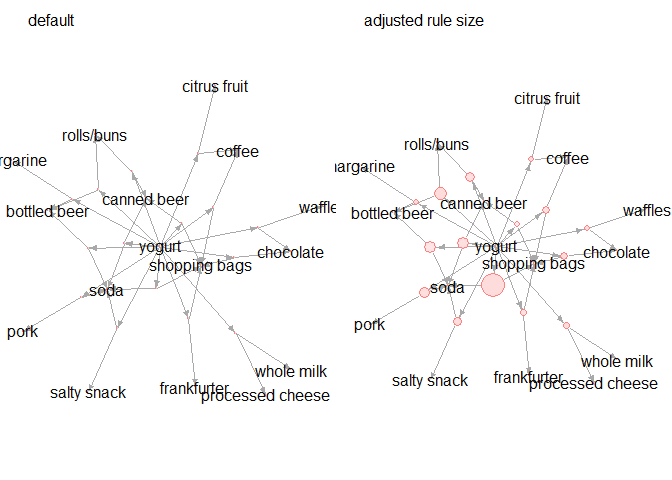
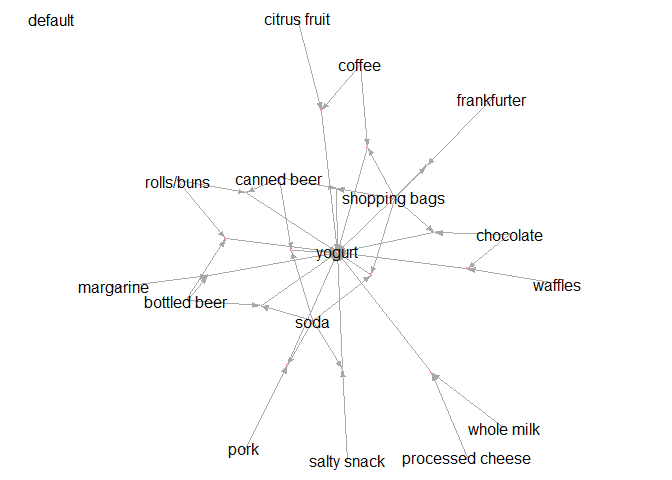
fix: rename inspectDF output colmn "n" -> "n.lhs"

diff --git a/README.md b/README.md
@@ -190,19 +190,20 @@ rules.lhs  <- glo.inspectDF %>%
   filter(n > 1) %>% 
   head(15)
 
-par(mfrow = c(1,2))
-set.seed(0)
+s=5
+set.seed(s)
 rules.lhs %>% plotRuleGraph(label = "default")
-set.seed(0)
-rules.lhs %>% plotRuleGraph(label = "adjusted rule size", 
-                            adujust.support.size = 4000)
 ```
 
 ![](README_files/figure-html/usecase.adjust.rule-1.png)<!-- -->
 
 ```r
-par(mfrow = c(1,1))
+set.seed(s)
+rules.lhs %>% plotRuleGraph(label = "adjusted rule size", 
+                            adujust.support.size = 4000)
 ```
+
+![](README_files/figure-html/usecase.adjust.rule-2.png)<!-- -->
 
 ```r
 require(stringr)
@@ -248,52 +249,52 @@ rules.lhs
 
 edges.lhs <- rules.lhs %>% inspectDF::toEdges()
 edges.lhs
-#>            to             from n     support confidence      lift count
-#> 1   Rule 7989      canned beer 2 0.001118454 0.09821429 0.7040361    11
-#> 2   Rule 7989    shopping bags 2 0.001118454 0.09821429 0.7040361    11
-#> 3  Rule 31170             soda 2 0.002135231 0.12574850 0.9014115    21
-#> 4  Rule 31170     bottled beer 2 0.002135231 0.12574850 0.9014115    21
-#> 5  Rule 13529      frankfurter 2 0.001220132 0.14814815 1.0619803    12
-#> 6  Rule 13529    shopping bags 2 0.001220132 0.14814815 1.0619803    12
-#> 7  Rule 20442           coffee 2 0.001423488 0.15217391 1.0908385    14
-#> 8  Rule 20442    shopping bags 2 0.001423488 0.15217391 1.0908385    14
-#> 9  Rule 26699       rolls/buns 2 0.001728521 0.15315315 1.0978581    17
-#> 10 Rule 26699      canned beer 2 0.001728521 0.15315315 1.0978581    17
-#> 11 Rule 31223             soda 2 0.002135231 0.15441176 1.1068803    21
-#> 12 Rule 31223      canned beer 2 0.002135231 0.15441176 1.1068803    21
-#> 13 Rule 29426             pork 2 0.001931876 0.16239316 1.1640938    19
-#> 14 Rule 29426             soda 2 0.001931876 0.16239316 1.1640938    19
-#> 15 Rule 22978             soda 2 0.001525165 0.16304348 1.1687555    15
-#> 16 Rule 22978      salty snack 2 0.001525165 0.16304348 1.1687555    15
-#> 17  Rule 2458        margarine 2 0.001016777 0.16666667 1.1947279    10
-#> 18  Rule 2458     bottled beer 2 0.001016777 0.16666667 1.1947279    10
-#> 19 Rule 32635       rolls/buns 2 0.002338587 0.17164179 1.2303914    23
-#> 20 Rule 32635     bottled beer 2 0.002338587 0.17164179 1.2303914    23
-#> 21 Rule 38217             soda 2 0.004270463 0.17355372 1.2440968    42
-#> 22 Rule 38217    shopping bags 2 0.004270463 0.17355372 1.2440968    42
-#> 23 Rule 13816       whole milk 2 0.001220132 0.17391304 1.2466726    12
-#> 24 Rule 13816 processed cheese 2 0.001220132 0.17391304 1.2466726    12
-#> 25  Rule 9106     citrus fruit 2 0.001118454 0.17460317 1.2516197    11
-#> 26  Rule 9106           coffee 2 0.001118454 0.17460317 1.2516197    11
-#> 27 Rule 20625        chocolate 2 0.001423488 0.17500000 1.2544643    14
-#> 28 Rule 20625    shopping bags 2 0.001423488 0.17500000 1.2544643    14
-#> 29  Rule 2605          waffles 2 0.001016777 0.17543860 1.2576083    10
-#> 30  Rule 2605        chocolate 2 0.001016777 0.17543860 1.2576083    10
-#> 31     yogurt        Rule 7989 2 0.001118454 0.09821429 0.7040361    11
-#> 32     yogurt       Rule 31170 2 0.002135231 0.12574850 0.9014115    21
-#> 33     yogurt       Rule 13529 2 0.001220132 0.14814815 1.0619803    12
-#> 34     yogurt       Rule 20442 2 0.001423488 0.15217391 1.0908385    14
-#> 35     yogurt       Rule 26699 2 0.001728521 0.15315315 1.0978581    17
-#> 36     yogurt       Rule 31223 2 0.002135231 0.15441176 1.1068803    21
-#> 37     yogurt       Rule 29426 2 0.001931876 0.16239316 1.1640938    19
-#> 38     yogurt       Rule 22978 2 0.001525165 0.16304348 1.1687555    15
-#> 39     yogurt        Rule 2458 2 0.001016777 0.16666667 1.1947279    10
-#> 40     yogurt       Rule 32635 2 0.002338587 0.17164179 1.2303914    23
-#> 41     yogurt       Rule 38217 2 0.004270463 0.17355372 1.2440968    42
-#> 42     yogurt       Rule 13816 2 0.001220132 0.17391304 1.2466726    12
-#> 43     yogurt        Rule 9106 2 0.001118454 0.17460317 1.2516197    11
-#> 44     yogurt       Rule 20625 2 0.001423488 0.17500000 1.2544643    14
-#> 45     yogurt        Rule 2605 2 0.001016777 0.17543860 1.2576083    10
+#>                from         to n     support confidence      lift count
+#> 1         Rule 7989     yogurt 2 0.001118454 0.09821429 0.7040361    11
+#> 2        Rule 31170     yogurt 2 0.002135231 0.12574850 0.9014115    21
+#> 3        Rule 13529     yogurt 2 0.001220132 0.14814815 1.0619803    12
+#> 4        Rule 20442     yogurt 2 0.001423488 0.15217391 1.0908385    14
+#> 5        Rule 26699     yogurt 2 0.001728521 0.15315315 1.0978581    17
+#> 6        Rule 31223     yogurt 2 0.002135231 0.15441176 1.1068803    21
+#> 7        Rule 29426     yogurt 2 0.001931876 0.16239316 1.1640938    19
+#> 8        Rule 22978     yogurt 2 0.001525165 0.16304348 1.1687555    15
+#> 9         Rule 2458     yogurt 2 0.001016777 0.16666667 1.1947279    10
+#> 10       Rule 32635     yogurt 2 0.002338587 0.17164179 1.2303914    23
+#> 11       Rule 38217     yogurt 2 0.004270463 0.17355372 1.2440968    42
+#> 12       Rule 13816     yogurt 2 0.001220132 0.17391304 1.2466726    12
+#> 13        Rule 9106     yogurt 2 0.001118454 0.17460317 1.2516197    11
+#> 14       Rule 20625     yogurt 2 0.001423488 0.17500000 1.2544643    14
+#> 15        Rule 2605     yogurt 2 0.001016777 0.17543860 1.2576083    10
+#> 16      canned beer  Rule 7989 2 0.001118454 0.09821429 0.7040361    11
+#> 17    shopping bags  Rule 7989 2 0.001118454 0.09821429 0.7040361    11
+#> 18             soda Rule 31170 2 0.002135231 0.12574850 0.9014115    21
+#> 19     bottled beer Rule 31170 2 0.002135231 0.12574850 0.9014115    21
+#> 20      frankfurter Rule 13529 2 0.001220132 0.14814815 1.0619803    12
+#> 21    shopping bags Rule 13529 2 0.001220132 0.14814815 1.0619803    12
+#> 22           coffee Rule 20442 2 0.001423488 0.15217391 1.0908385    14
+#> 23    shopping bags Rule 20442 2 0.001423488 0.15217391 1.0908385    14
+#> 24       rolls/buns Rule 26699 2 0.001728521 0.15315315 1.0978581    17
+#> 25      canned beer Rule 26699 2 0.001728521 0.15315315 1.0978581    17
+#> 26             soda Rule 31223 2 0.002135231 0.15441176 1.1068803    21
+#> 27      canned beer Rule 31223 2 0.002135231 0.15441176 1.1068803    21
+#> 28             pork Rule 29426 2 0.001931876 0.16239316 1.1640938    19
+#> 29             soda Rule 29426 2 0.001931876 0.16239316 1.1640938    19
+#> 30             soda Rule 22978 2 0.001525165 0.16304348 1.1687555    15
+#> 31      salty snack Rule 22978 2 0.001525165 0.16304348 1.1687555    15
+#> 32        margarine  Rule 2458 2 0.001016777 0.16666667 1.1947279    10
+#> 33     bottled beer  Rule 2458 2 0.001016777 0.16666667 1.1947279    10
+#> 34       rolls/buns Rule 32635 2 0.002338587 0.17164179 1.2303914    23
+#> 35     bottled beer Rule 32635 2 0.002338587 0.17164179 1.2303914    23
+#> 36             soda Rule 38217 2 0.004270463 0.17355372 1.2440968    42
+#> 37    shopping bags Rule 38217 2 0.004270463 0.17355372 1.2440968    42
+#> 38       whole milk Rule 13816 2 0.001220132 0.17391304 1.2466726    12
+#> 39 processed cheese Rule 13816 2 0.001220132 0.17391304 1.2466726    12
+#> 40     citrus fruit  Rule 9106 2 0.001118454 0.17460317 1.2516197    11
+#> 41           coffee  Rule 9106 2 0.001118454 0.17460317 1.2516197    11
+#> 42        chocolate Rule 20625 2 0.001423488 0.17500000 1.2544643    14
+#> 43    shopping bags Rule 20625 2 0.001423488 0.17500000 1.2544643    14
+#> 44          waffles  Rule 2605 2 0.001016777 0.17543860 1.2576083    10
+#> 45        chocolate  Rule 2605 2 0.001016777 0.17543860 1.2576083    10
 ```
 
 
